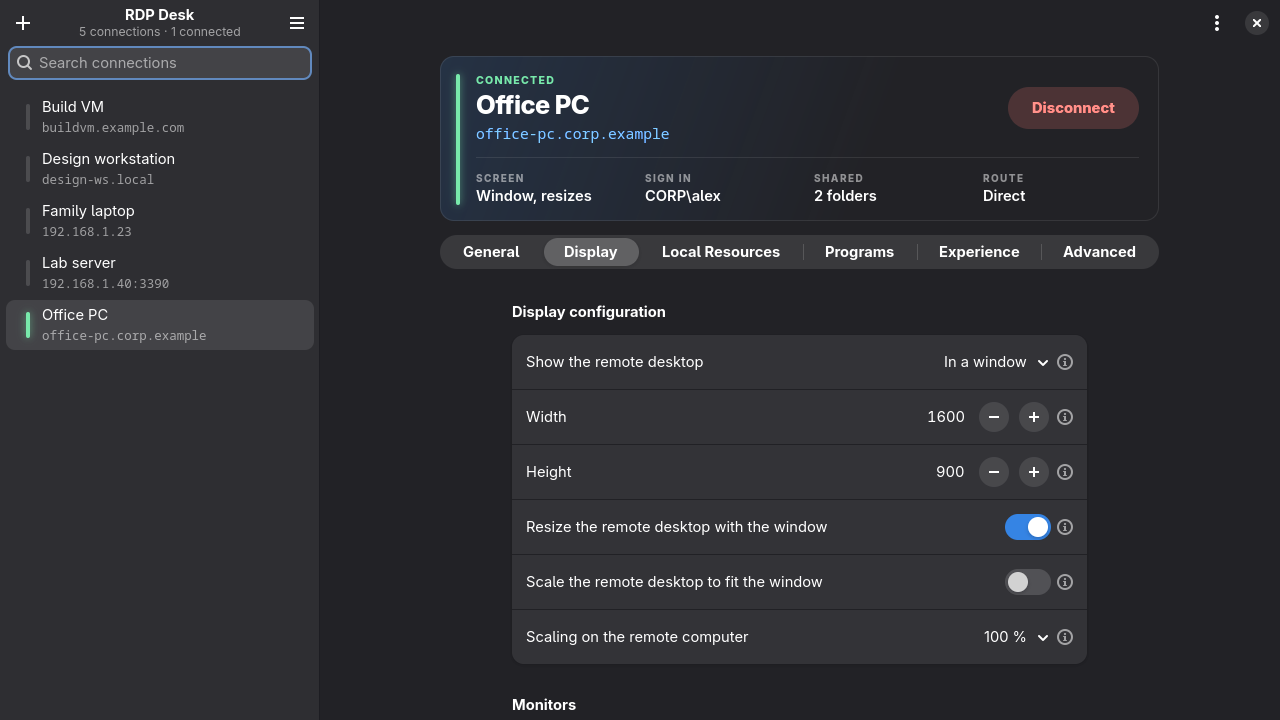
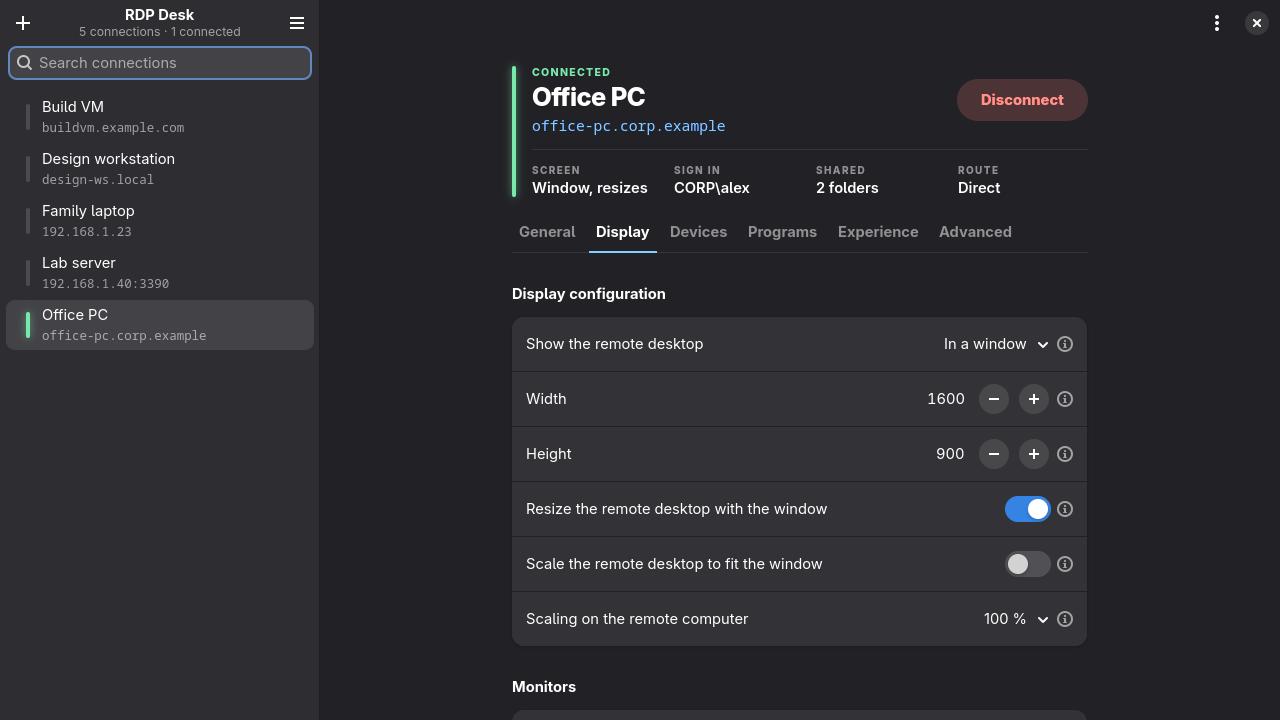
Open header and an underline tab rail on one column
The card, the segmented tabs and the setting groups were three boxes of
different widths, and below 1100sp the tabs became unlabelled icons.
Now the header is open (status light, name, address, spec strip), the
tabs are a text rail with an accent underline that never drops its
labels, and everything shares the settings' 600 px column.
"Local Resources" is called "Devices" so the rail fits in narrow fonts.

diff --git a/rdpdesk.py b/rdpdesk.py
@@ -122,7 +122,7 @@ TABS = [
             R("pinconnectionbar", "Pin the connection bar", default="1"),
         ]),
     ]),
-    ("local", "Local Resources", "audio-speakers-symbolic", [
+    ("local", "Devices", "audio-speakers-symbolic", [
         ("Remote audio", "", [
             R("audiomode", "Remote audio playback", "combo", "0", [
                 ("0", "Play on this computer"), ("1", "Play on the remote computer"), ("2", "Do not play")]),
@@ -427,12 +427,7 @@ CSS = """
 .led.warning { background: @warning_color; }
 .hero .led { min-height: 0; }
 .conn-row .subtitle { font-family: monospace; font-size: 0.85em; }
-.hero {
-  padding: 18px 20px 16px 16px;
-  border-radius: 14px;
-  background-image: linear-gradient(110deg, alpha(@accent_bg_color, 0.16), alpha(@accent_bg_color, 0.0) 60%);
-  box-shadow: inset 0 0 0 1px alpha(@window_fg_color, 0.09);
-}
+.hero { padding: 6px 0 0 0; }
 .hero-name { font-size: 1.75em; font-weight: 800; letter-spacing: -0.02em; }
 .hero-host { font-family: monospace; color: @accent_color; }
 .status { font-size: 0.72em; font-weight: 800; letter-spacing: 0.12em; opacity: 0.6; }
@@ -441,8 +436,13 @@ CSS = """
 .rule { min-height: 1px; background: alpha(@window_fg_color, 0.09); }
 .spec-key { font-size: 0.68em; font-weight: 800; letter-spacing: 0.14em; opacity: 0.5; }
 .spec-value { font-weight: 600; }
+.rail { margin-top: 16px; box-shadow: inset 0 -1px alpha(@window_fg_color, 0.09); }
+.rail-tab, .rail-tab:hover, .rail-tab:checked, .rail-tab:active {
+  border-radius: 0; padding: 7px 7px 9px 7px; margin-right: 6px; background: none;
+  font-weight: 700; color: alpha(@window_fg_color, 0.5); }
+.rail-tab:hover { color: @window_fg_color; }
+.rail-tab:checked { color: @window_fg_color; box-shadow: inset 0 -2px @accent_color; }
 .big-connect { padding: 9px 24px; font-weight: 800; }
-.tabs { margin: 14px 0 2px 0; }
 """
 
 
@@ -502,12 +502,8 @@ class Window(Adw.ApplicationWindow):
         self.toasts.set_child(self.split)
         self.set_content(self.toasts)
 
-        narrow = Adw.Breakpoint.new(Adw.BreakpointCondition.parse("max-width: 1100sp"))
-        narrow.add_setter(self.switcher, "display-mode", Adw.InlineViewSwitcherDisplayMode.ICONS)
-        self.add_breakpoint(narrow)
         phone = Adw.Breakpoint.new(Adw.BreakpointCondition.parse("max-width: 640sp"))
         phone.add_setter(self.split, "collapsed", True)
-        phone.add_setter(self.switcher, "display-mode", Adw.InlineViewSwitcherDisplayMode.ICONS)
         self.add_breakpoint(phone)
 
         drop = Gtk.DropTarget.new(Gdk.FileList, Gdk.DragAction.COPY)
@@ -554,9 +550,20 @@ class Window(Adw.ApplicationWindow):
                 page.add(self.build_folders() if group == "FOLDERS" else self.build_group(*group))
             self.tabs.add_titled_with_icon(page, tab_id, title, icon)
 
-        # Tabs as one rounded segmented control under the banner, not in the title bar (no room there).
-        self.switcher = Adw.InlineViewSwitcher(stack=self.tabs, css_classes=["round", "tabs"], homogeneous=False,
-                                               display_mode=Adw.InlineViewSwitcherDisplayMode.LABELS)
+        # Tabs: a text rail with an underline under the header, never icons-only; scrolls sideways if too narrow.
+        rail = Gtk.Box(css_classes=["rail"])
+        self.tab_buttons, group = {}, None
+        for tab_id, title, *_ in TABS:
+            b = Gtk.ToggleButton(label=title, group=group, css_classes=["rail-tab"])
+            b.connect("toggled", lambda b, t=tab_id: b.get_active() and self.tabs.set_visible_child_name(t))
+            rail.append(b)
+            group = group or b
+            self.tab_buttons[tab_id] = b
+        self.tab_buttons[TABS[0][0]].set_active(True)
+        self.tabs.connect("notify::visible-child-name",
+                          lambda st, _: self.tab_buttons[st.get_visible_child_name()].set_active(True))
+        self.switcher = Gtk.ScrolledWindow(child=rail, hscrollbar_policy=Gtk.PolicyType.EXTERNAL,
+                                           vscrollbar_policy=Gtk.PolicyType.NEVER, propagate_natural_height=True)
         tools = Gio.Menu()
         for label, action, icon in [("Duplicate", "win.duplicate", "edit-copy-symbolic"),
                                     ("Export…", "win.export", "document-save-as-symbolic"),
@@ -571,8 +578,8 @@ class Window(Adw.ApplicationWindow):
         header = Adw.HeaderBar(show_title=False)
         self.more_button = Gtk.MenuButton(icon_name="view-more-symbolic", menu_model=more, tooltip_text="More")
         header.pack_end(self.more_button)
-        top = Adw.Clamp(maximum_size=720, tightening_threshold=600, margin_top=10, margin_start=12, margin_end=12)
-        top_box = Gtk.Box(orientation=Gtk.Orientation.VERTICAL)
+        top = Adw.Clamp(maximum_size=600, tightening_threshold=560, margin_top=14, margin_start=12, margin_end=12)
+        top_box = Gtk.Box(orientation=Gtk.Orientation.VERTICAL, margin_start=12, margin_end=12)
         top_box.append(self.build_hero())
         top_box.append(self.switcher)
         top.set_child(top_box)

diff --git a/README.md b/README.md
@@ -9,7 +9,7 @@ A small GTK 4 / libadwaita app with the settings the Windows Remote Desktop clie
 
 - **Your connections in one list**, each with a status light that glows green while connected. Search them, and double-click one to connect. Each session opens in its own window, so several can run at once.
 - **A header card for every connection**: status (*Ready*, *Connected*, *Needs a computer*), name, address and one big Connect button, over a strip that sums up the setup at a glance: *Screen*, *Sign in*, *Shared* and *Route*.
-- **Every setting the Windows client has: 54 in all, in its six tabs.** General, Display, Local Resources, Programs, Experience and Advanced. That includes multiple monitors, remote scaling, audio and microphone, clipboard, printers, drives, USB devices, cameras, security keys, RemoteApp, the performance options, Network Level Authentication and RD Gateway.
+- **Every setting the Windows client has: 54 in all, in six tabs** (the Windows client's, with *Local Resources* called *Devices*). General, Display, Devices, Programs, Experience and Advanced. That includes multiple monitors, remote scaling, audio and microphone, clipboard, printers, drives, USB devices, cameras, security keys, RemoteApp, the performance options, Network Level Authentication and RD Gateway.
 - **A help icon on every setting.** Hover the ⓘ to see what the setting does and when you would change it.
 - **Shared folders.** Pick folders such as Downloads or a NAS share. They appear on the remote computer as drives.
 - **Plain `.rdp` files.** Connections are stored in the format Windows uses:
@@ -26,8 +26,8 @@ A small GTK 4 / libadwaita app with the settings the Windows Remote Desktop clie
 
 | | |
 |---|---|
-| ![Display tab](docs/screenshots/display.png) | ![Local Resources tab with shared folders](docs/screenshots/local.png) |
-| **Display**: window or full screen, resolution, scaling, monitors | **Local Resources**: audio, keyboard, devices, shared folders |
+| ![Display tab](docs/screenshots/display.png) | ![Devices tab with shared folders](docs/screenshots/local.png) |
+| **Display**: window or full screen, resolution, scaling, monitors | **Devices**: audio, keyboard, devices, shared folders |
 | ![Experience tab](docs/screenshots/experience.png) | ![Advanced tab](docs/screenshots/advanced.png) |
 | **Experience**: connection speed and visual effects | **Advanced**: server authentication, NLA, RD Gateway |
 | ![Sign-in dialog](docs/screenshots/sign-in.png) | ![Light style](docs/screenshots/light.png) |
@@ -78,7 +78,7 @@ Every setting has a hover help icon in the app. In brief:
 |---|---|
 | **General** | Name, computer (name or IP, optional `:port`), user name, domain, password, *always ask for credentials* |
 | **Display** | Window or full screen, size, *resize the remote desktop with the window*, scale to fit, remote scaling (125 %, 150 %…), all monitors / span / pick monitors, colour depth, connection bar |
-| **Local Resources** | Where sound plays, microphone, audio quality; where Windows key shortcuts go; clipboard, printers, smart cards, serial ports, all drives, USB devices, cameras, security keys, location; shared folders |
+| **Devices** | Where sound plays, microphone, audio quality; where Windows key shortcuts go; clipboard, printers, smart cards, serial ports, all drives, USB devices, cameras, security keys, location; shared folders |
 | **Programs** | Start a program instead of the desktop; RemoteApp (one program window, no desktop) |
 | **Experience** | Connection speed (auto-detect), graphics acceleration (turn off if the picture flickers), wallpaper, font smoothing, composition, window dragging, animations, visual styles, bitmap caching, automatic reconnect |
 | **Advanced** | What to do with an unverified server certificate, Network Level Authentication, security layer negotiation, console (admin) session, RD Gateway |
